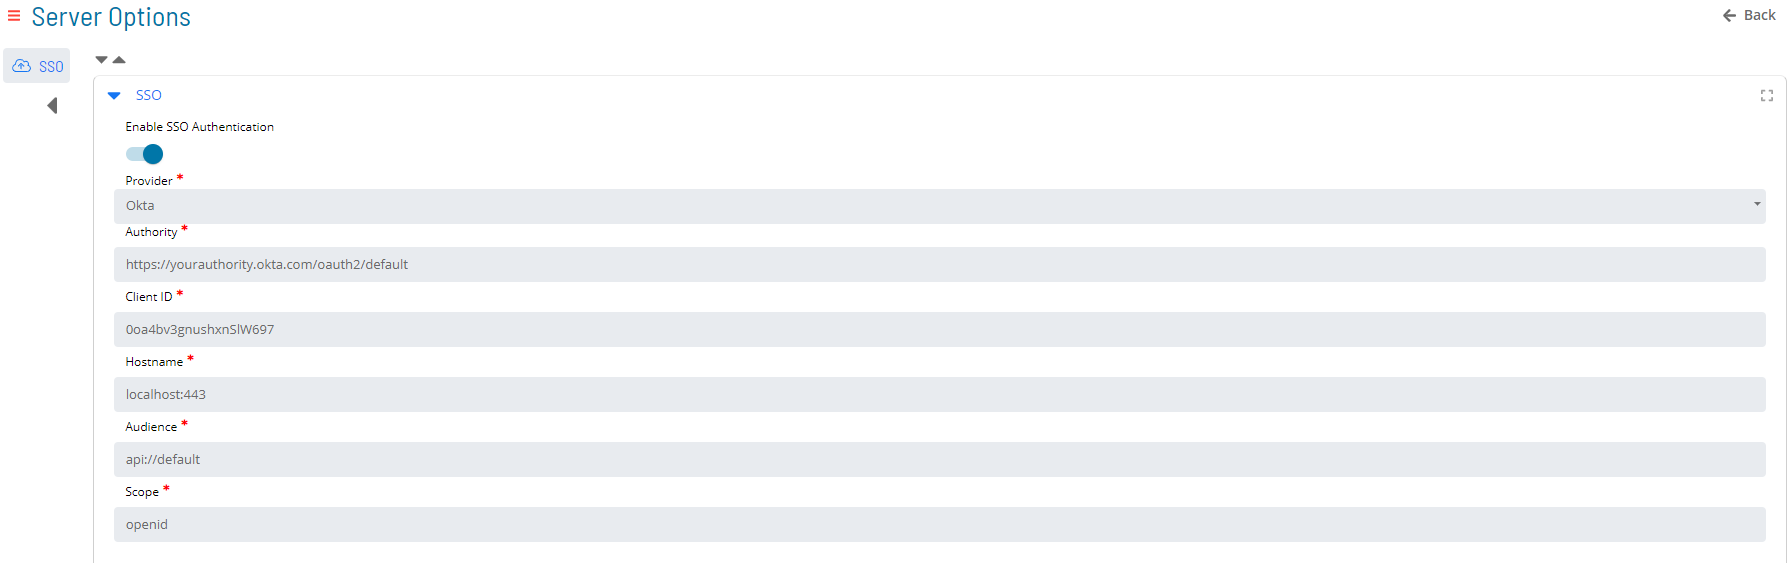
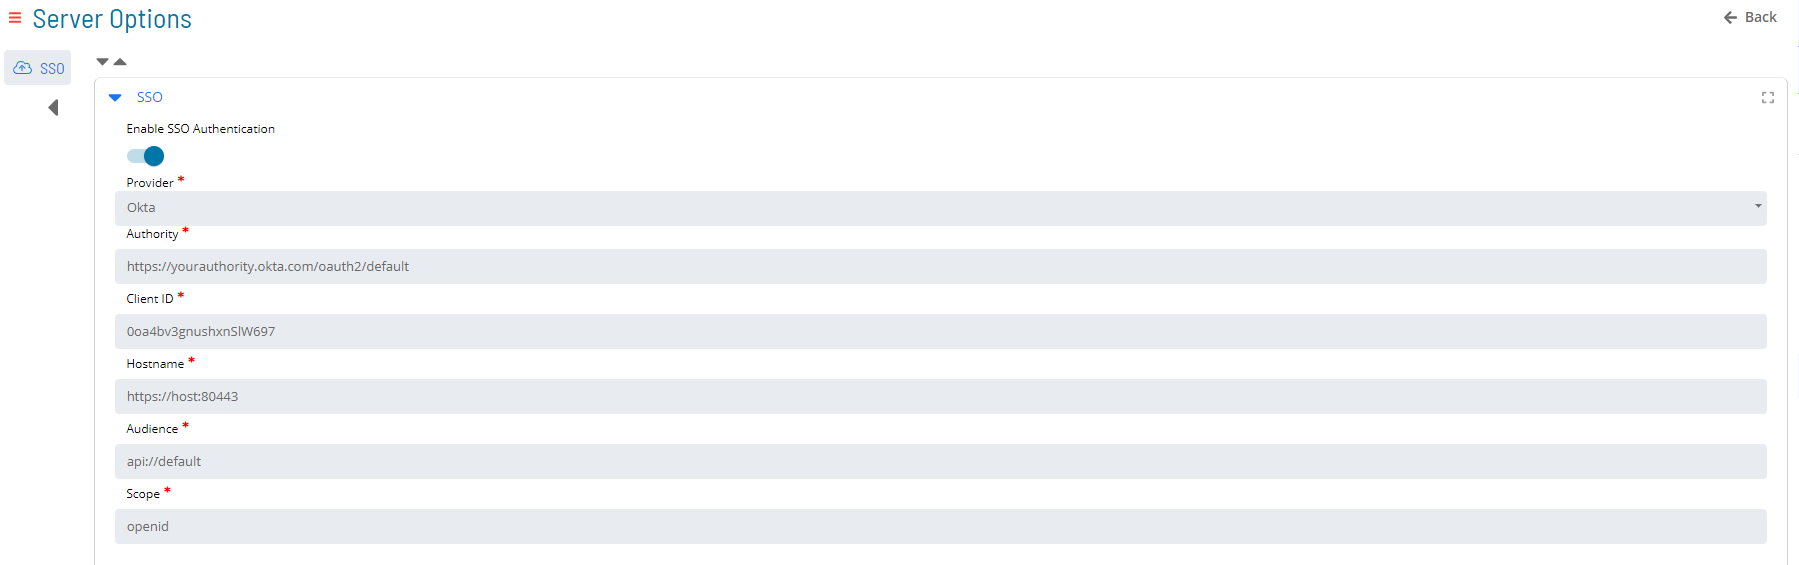
edited SSO configuration documentation

diff --git a/docs/Files/UI/Solution-Manager/Library/ServerOptions/Managing-SSO-Configurations.md b/docs/Files/UI/Solution-Manager/Library/ServerOptions/Managing-SSO-Configurations.md
@@ -24,11 +24,13 @@ To configure SSO Settings, go to **Library** > **Server Options** > click on the
 
 1. Enter a **Client ID**. This is your client application's identifier as registered with the OIDC/OAuth2.
 
-1. Enter a **Hostname**. The **hostname** property of the URL interface is a string containing the domain name of the URL (make sure to include **HTTP** or **HTTPS** and the **port number** if applicable). For example, **https://host.com:80443**.
+1. Enter a **Hostname**. The **hostname** property of the URL interface is a string containing the domain name of the URL. Make sure to include the scheme, which can be **HTTP** or **HTTPS**, and the **port number**, if applicable. For example, **https://host:80443**.
 
 1. Enter an **Audience**. The **Audience** identifies the recipients that the JWT is intended for.
 
 1. Enter a **Scope**. The **Scopes** being requested from the OIDC/OAuth2 provider (default: "openid"). You can enter various scopes separated by an empty space. For example, **openid** **email**.
+
+\* OpenID Connect (OIDC) is an open authentication protocol that works on top of the OAuth 2.0 (OAuth2) framework.
 
 #### Group Mappings
 
@@ -44,7 +46,7 @@ To configure SSO Settings, go to **Library** > **Server Options** > click on the
 
 1.  If the switch is in the **On** position, the user must input values in all fields including values for **Group Mappings**.
 2.  Examples of how to gather these requirements will be posted below (for the [**Okta Application**](#okta-application) and the [**Azure Application**](#azure-application)).
-3.  SSO can be implemented with any IdP as long as the required values are provided.
+3.  SSO can be implemented with any IdP as long as the required values are provided and they follow the OpenID Connect authentication protocol.
 
 :::
 
@@ -86,7 +88,7 @@ The following is an example of filling out the required fields:
 
 #### Okta Application
 
-This document will describe the steps needed to create a custom application in Okta to return custom optional claims in a access token that will be used by SMAOpConRestApi.
+This document will describe the steps needed to create a custom application in Okta to return custom optional claims in a access token that will be used by SMAOpConRestApi. Ensure the user following these steps has enough privileges to create an application, assign users to that application, and create custom claims.
 
 1.  After you’ve logged in to Okta, click "Admin" in the upper right corner to go to the administration dashboard
     - ![Okta-Application](../../../../../Resources/Images/SM/Library/ServerOptions/okta-initial.png "Okta - Landing Page")
@@ -94,27 +96,30 @@ This document will describe the steps needed to create a custom application in O
     - ![Okta-Application](../../../../../Resources/Images/SM/Library/ServerOptions/okta-application-start.png "Okta - Dashboard")
 1.  Click the "Create App Integration" button
     - ![Okta-Application](../../../../../Resources/Images/SM/Library/ServerOptions/okta-app-integration.png "Okta - Applications")
-    1.  Inside the modal, select the following options: 1. Sign-in method: OIDC - OpenID Connect 1. Application type: Single-Page Application
-    - ![Okta-Application](../../../../../Resources/Images/SM/Library/ServerOptions/okta-app-integration.png "Okta - Integration Options")
+    1.  Inside the modal, select the following options:
+        1. Sign-in method: OIDC - OpenID Connect
+        1. Application type: Single-Page Application
+    - ![Okta-Application](../../../../../Resources/Images/SM/Library/ServerOptions/okta-signinmethod-applicationtype.png "Okta - Integration Options")
     1. Click on "Next"
     1. Set the following options:
-       1. Grant type: Authorization
+       1. Grant type: Authorization Code
        1. Sign-in redirects URIs:(sample) `https://<hostname:443>/login/callback`
-          1. The **hostname** will be used on the SSO Configuration page in Solution Manager. Make sure to include **HTTP** or **HTTPS** and the **port number** if applicable
-       1. The value for the URL to access Solution Manager will be used in the SSO Configuration page
+          1. Make sure to include **/login/callback**
+          1. The **hostname** will be used on the SSO configuration panel in Solution Manager. Make sure to include the scheme, which can be **HTTP** or **HTTPS**, and the **port number**, if applicable.
+       1. The value for the URL to access Solution Manager will be used in the SSO configuration panel
        1. Sign-out redirects URIs: This value is not necessary
        1. Controlled access: Allow everyone in your organization access (for this example)
        1. If an option was not listed, you may select the one that is more convenient for your organization
        1. Set controlled access based on your organizations needs
        - ![Okta-Application](../../../../../Resources/Images/SM/Library/ServerOptions/okta-newpageapp.png "Okta- Integration Grant Type")
     1. Click on "Save".
-    1. Note down the “Client ID” value, this will be used to configure SSO in Solution Manager
+    1. Note down the **Client ID** value, this will be used to configure SSO in Solution Manager
 1.  After creating the application, go the newly created application and go to "Assignments"
     1. Assign the users from your organization to the new application
     - ![Okta-Application](../../../../../Resources/Images/SM/Library/ServerOptions/okta-user-assignments.png "Okta- User Assignments")
 1.  Go to the "Security" section in the main menu and select "API"
     1. In the "Authorization Server" tab select the "default" server
-       1. Note down the Issuer URI for the “default” row, this value will be the “authority” which will be used in the configuration screen for SSO
+       1. Note down the Issuer URI for the “default” row, this value will be the **Authority** which will be used in the configuration screen for SSO
     1. Inside the "default" authorization server select the "Claims" tab
     - ![Okta-Application](../../../../../Resources/Images/SM/Library/ServerOptions/okta-default-server.png "Okta - Claims Tab")
     1. Click on "Add Claim"
@@ -126,8 +131,8 @@ This document will describe the steps needed to create a custom application in O
           1. Make sure to add **appuser.email** in the **Value** text field
        - ![Okta-Application](../../../../../Resources/Images/SM/Library/ServerOptions/okta-claim-email.png "Okta - Add Email Claim")
     1. Click on the “Settings” tab and take notes of the following values:
-       1. Audience, this will be used in the SSO Configuration page inside Solution Manager
-       1. Issuer, this will be used as the “Authority” value in the SSO Configuration page
+       1. **Audience**, this will be used in the SSO configuration panel inside Solution Manager
+       1. Issuer, this will be used as the **Authority** value in the SSO configuration panel
        - ![Okta-Application](../../../../../Resources/Images/SM/Library/ServerOptions/okta-server-settings.png "Okta - Default Server Settings")
     1. Go to the "Token Preview" tab
        1. Type the name your newly created application
@@ -144,17 +149,17 @@ This document will describe the steps needed to create a custom application in O
 
 :::note
 
-- Make sure to the values of “**openid**“ in the Scope textbox inside the SSO Configuration page inside Solution Manager.
+- Make sure to the values of “**openid**“ in the Scope textbox inside the SSO configuration panel inside Solution Manager.
 - Make sure the **email** for the users allowed to access the application matches the username. This value will be used to pair with an existing OpCon user or it will be used to create a new user in the OpCon environment.
 
 :::
 
 #### Azure Application
 
-This document describes the steps needed to create a custom application in Azure AD that will grant SMAOpConRestApi access to Microsoft Graph API to retrieve user information.
+This document describes the steps needed to create a custom application in Azure AD that will grant SMAOpConRestApi access to Microsoft Graph API to retrieve user information. Ensure the user following these steps has enough privileges to create an application, assign users to that application, and assign permissions to Microsoft Graph API.
 
 1. Go to "Azure Active Directory"
-1. Go to "App registration"
+1. Go to "App registrations"
    1. Select new registrations
       1. Add a name to the new application
       1. Select who can access the application
@@ -162,8 +167,9 @@ This document describes the steps needed to create a custom application in Azure
       1. Select Single-page application (SPA)
       1. Select the redirect URL
          1. For example, `https://<yourhostname>:8080/login/callback`
-         1. Make sure to add “**login/callback**”
-      1. The **Hostname** used in the redirect URL will be used in the SSO Configuration page inside Solution Manager. Make sure to include **HTTP** or **HTTPS** and the **port number** if applicable
+         1. Make sure to add “**/login/callback**”
+      1. The **Hostname** used in the redirect URL will be used in the SSO configuration panel inside Solution Manager. Make sure to include the scheme, which can be **HTTP** or **HTTPS**, and the **port number**, if applicable
+      - ![Azure- Register Application](../../../../../Resources/Images/SM/Library/ServerOptions/azure-register-application.png "Azure - Register Application")
    1. Register Application
 1. Select the newly created application
    1. From the “Home” menu go to Azure Active Directory => App registrations => Select your new application
@@ -172,11 +178,12 @@ This document describes the steps needed to create a custom application in Azure
    - ![Azure-Application](../../../../../Resources/Images/SM/Library/ServerOptions/azure-platform-configuration.png "Azure - Platform Configuration")
 1. Go to “Overview” in the left navigation menu
    1. Note down the following information, you will need it later:
-   1. The application (client) ID will be used as the Client ID in the configuration screen inside Solution Manager
+   1. The application (client) ID will be used as the **Client ID** in the SSO configuration panel inside Solution Manager
    1. Click on “Endpoints” and note down the OpenID Connect value
    1. Copy this value and paste it on a browser and find the issuer value inside the JSON
       1. It is highly recommended that you copy this text from the browser and paste it into an application that can format the JSON value
       - ![Azure-Application](../../../../../Resources/Images/SM/Library/ServerOptions/azure-formatted-json.png "Azure - Formatted JSON")
+      1. Note down the Issuer URI, this value will be used in the **Authority** field in the SSO configuration panel inside Solution Manager
 1. Go to “API permissions” which is found on the left navigation menu
    1. Select Add a permission
    1. Click on “Add a permission” and select Microsoft Graph
@@ -189,7 +196,7 @@ This document describes the steps needed to create a custom application in Azure
 1. Go to “Manifest” on the left navigation menu
    1. Search for “**accessTokenAcceptedVersion**” and set the value to **2**
    - ![Azure-Application](../../../../../Resources/Images/SM/Library/ServerOptions/azure-access-token.png "Azure - Manifest Access Token Version")
-   1. Then search of the term “**resourceAppId**” and note down the value. This will be used as the **Audience** value in the SSO Configuration page in Solution Manager
+   1. Then search of the term “**resourceAppId**” and note down the value. This will be used as the **Audience** value in the SSO configuration panel in Solution Manager
    - ![Azure-Application](../../../../../Resources/Images/SM/Library/ServerOptions/azure-audience-manifest.png "Azure - Manifest Audience Value")
 1. Restrict access to the application (optional).
    1. Go to Azure Active Directory -> Enterprise Applications > All applications and select the application you want to configure
@@ -201,7 +208,7 @@ This document describes the steps needed to create a custom application in Azure
 
 :::note
 
-- Make sure to add the “**openid**” Scope in the SSO Configuration page inside Solution Manager
+- Make sure to add the “**openid**” Scope in the SSO configuration panel inside Solution Manager
 
 :::
 
